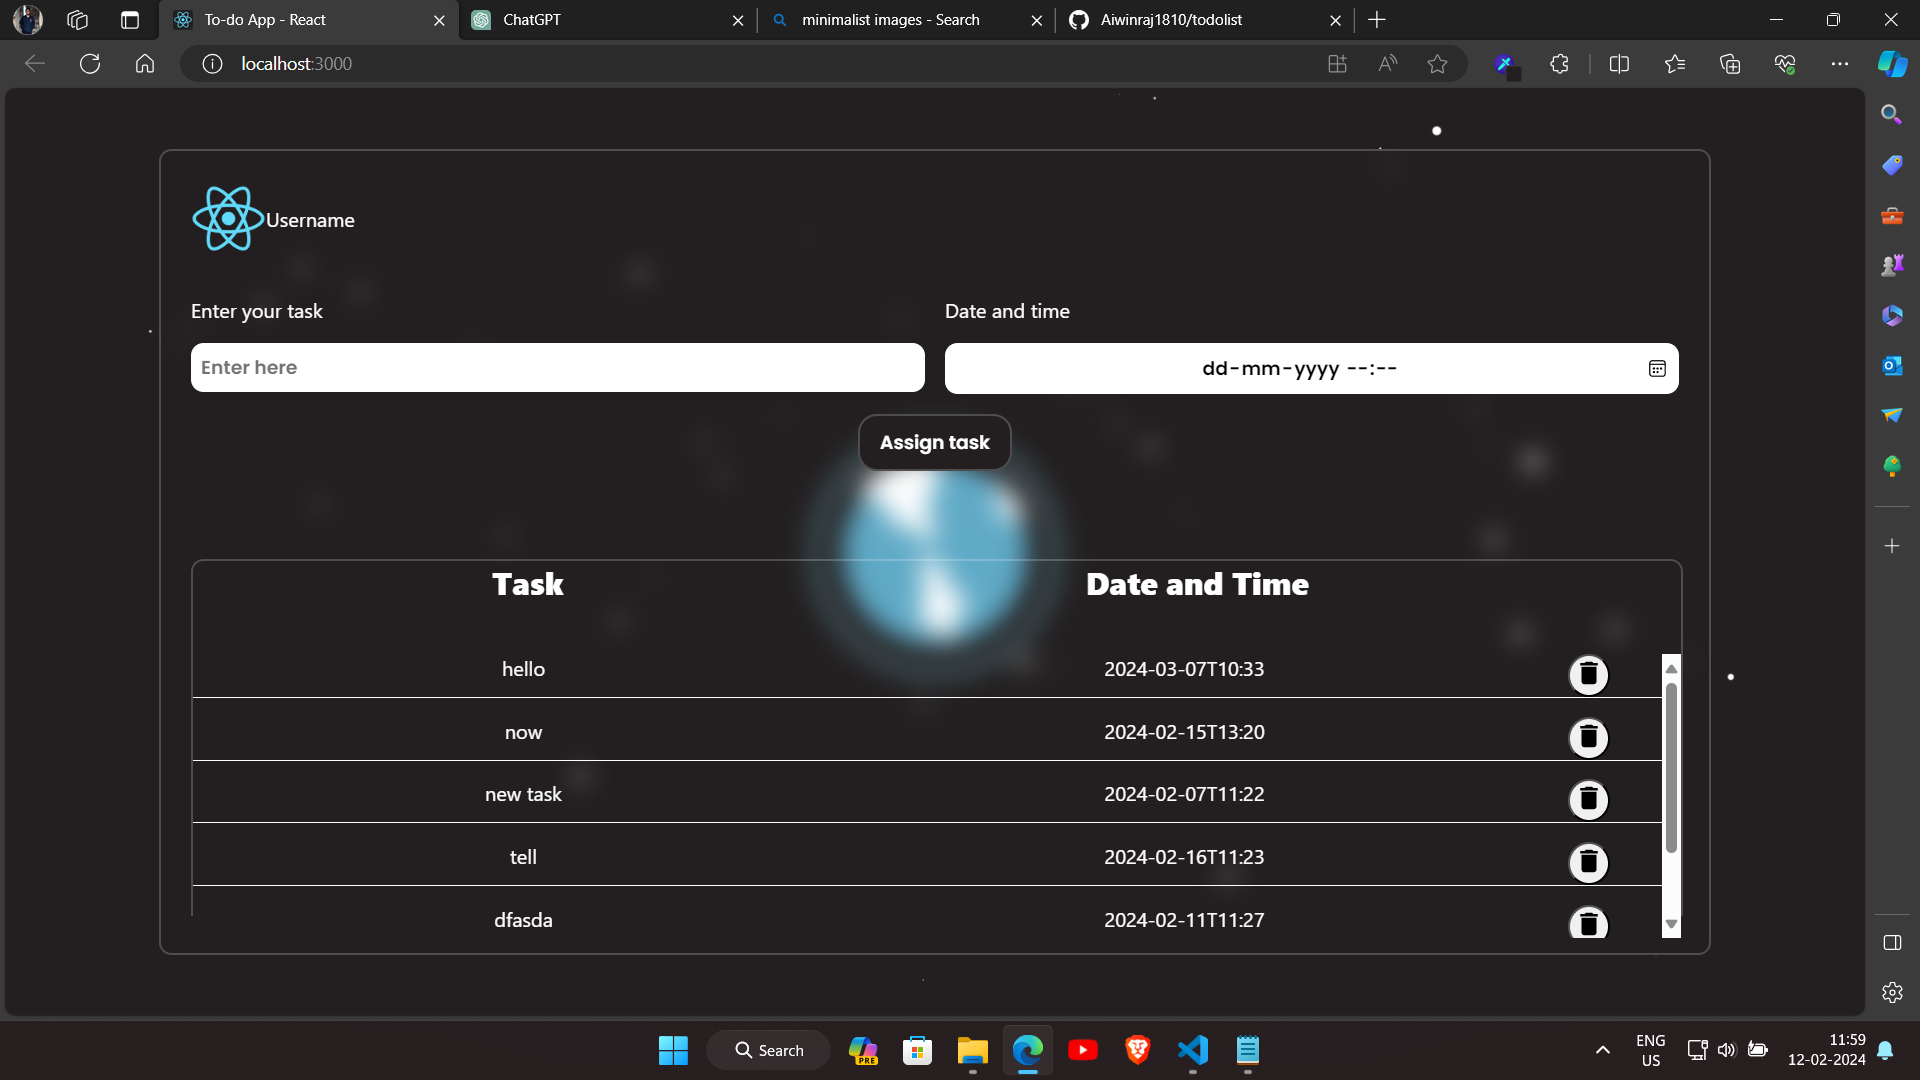
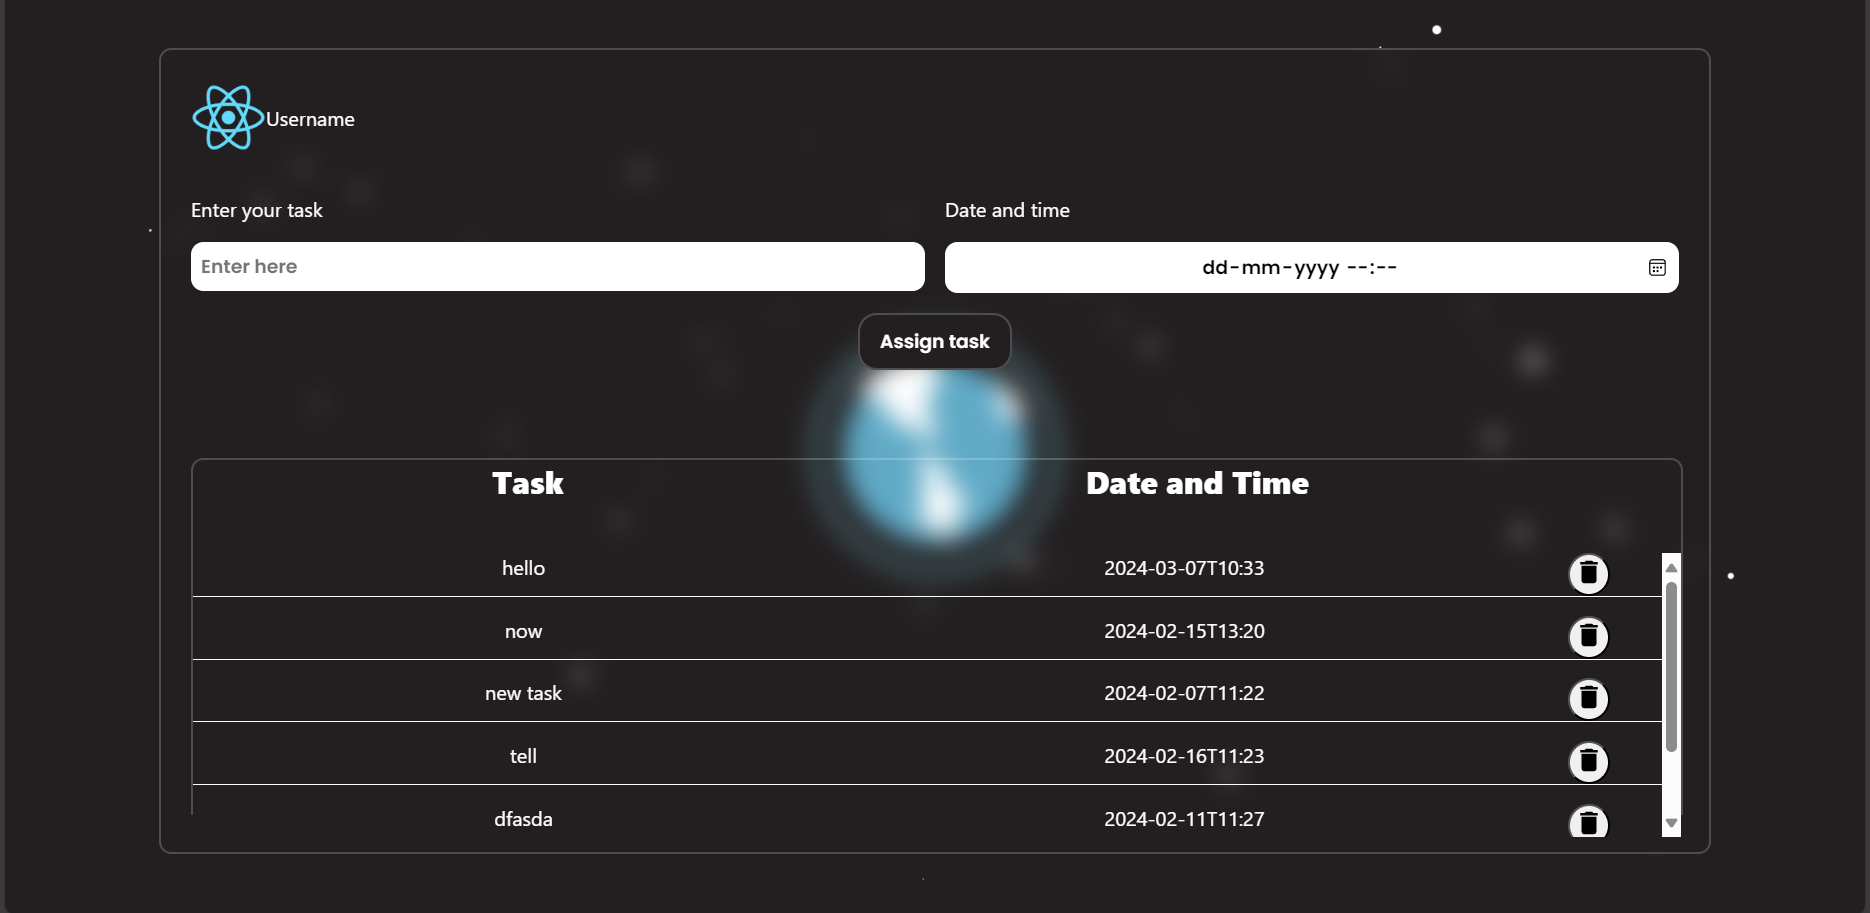
Adding CSS changes

diff --git a/src/App.css b/src/App.css
@@ -12,7 +12,7 @@
 
 .container{
   width: 80vw;
-  height: 700px;
+  height: 100%;
   background-color: transparent;
   border: 2px solid rgba(255, 255, 255, .2);
   backdrop-filter: blur(10px);
